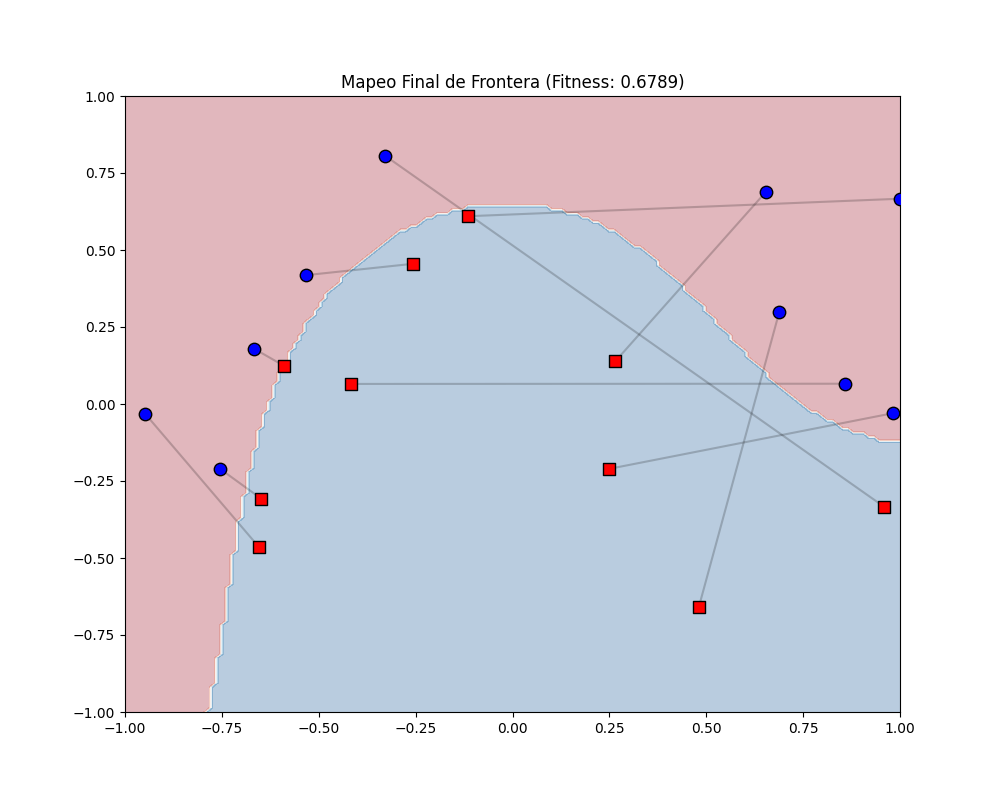
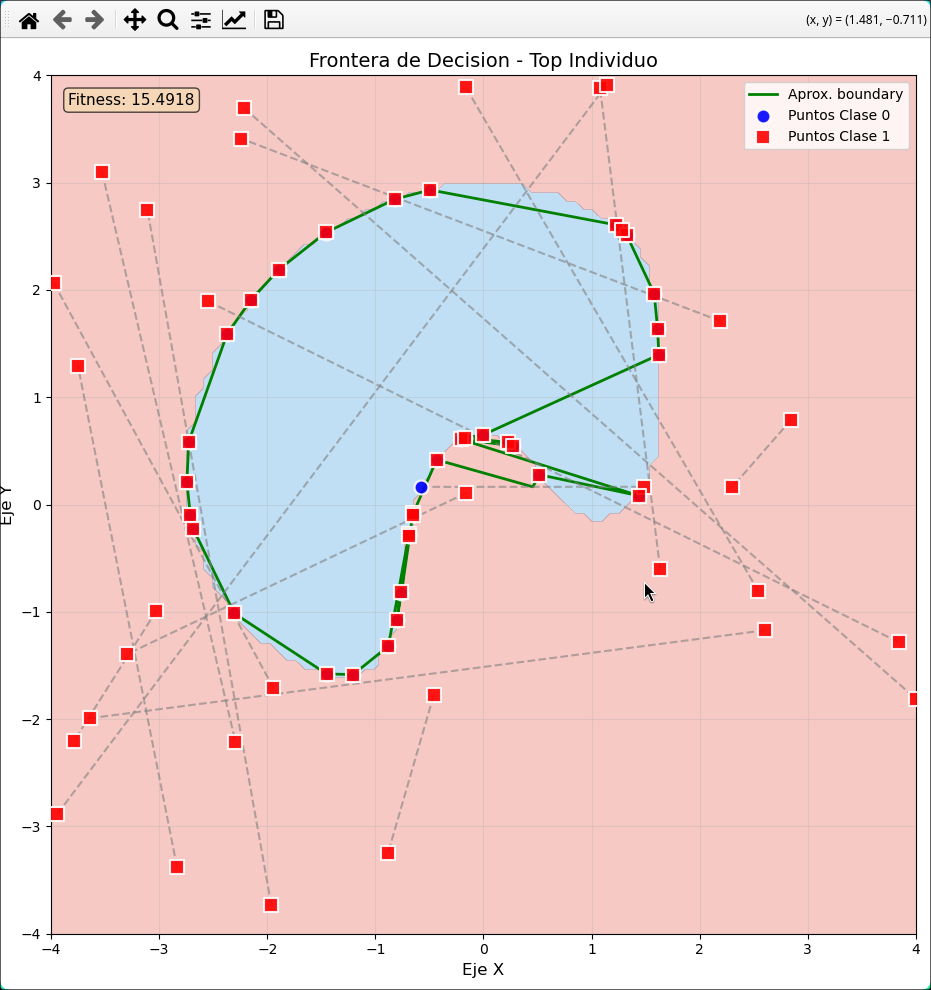
documentacion go go go me quiero ir a la cama jodeeeeer

diff --git a/P3/Documentation/Practica3.tex b/P3/Documentation/Practica3.tex
@@ -88,7 +88,7 @@ Sergio García Atanasio
 
 \newpage
 
-\begin{spacing}{1.3}
+\begin{spacing}{1.4}
 
 \section{Introducción}
 Documento sobre la realización de la tercera práctica de Metaheurísticas.
@@ -149,12 +149,24 @@ el modelo resultante.
 
 \subsubsection{Representación algoritmo genético}
 
-Para la realización de nuestro algoritmo genético, representaremos un individuo como un conjunto de pares de puntos del espacio en dos dimensiones.
-Para ello, se ha implementado la clase Individual, con parámetros esenciales como el número de puntos del individuo (ha de ser par),
-los límites del espacio de búsqueda (posteriormente detallados), emparejamiento, valor de fitness y la clase
+Para la realización de nuestro algoritmo genético, representaremos un individuo como un conjunto de pares de puntos del espacio en dos dimensiones, 
+de un tamaño indefinido, pero que fijaremos nosotros previamente antes de comenzar nuestro algoritmo genético.
+Una representación visual abstracta puede ser la siguiente:
+
+\begin{figure}[htb]
+  \centering
+  \includegraphics[width=0.35\linewidth]{images/Representacion_Genetico.png}
+\end{figure}
+
+Además, para la implementación del inviduo (no es la representación), se ha creado la clase Individual, con parámetros esenciales
+como el número de puntos del individuo (ha de ser par), los límites del espacio de búsqueda (posteriormente detallados), emparejamiento, valor de fitness y la clase
 a la que pertenece cada punto. Por último los puntos se almacenan en una matriz de nx2 donde cada fila representa un punto,
 a efectos prácticos es como una lista de puntos en orden ya que así la recorreremos. Dicho esto, si el tamaño
-de los individuos es de 20, tendremos una lista de 20 puntos que están emparejados entre sí.\\
+de los individuos es de 20, tendremos una lista de 20 puntos que están emparejados entre sí.
+
+El vector "pairs" indica la posición de cada punto en el vector de puntos. Es decir, un elemento del vector de pares 
+podría ser (4, 8), que indica que los puntos asociados a ese par son: (points[4], points[8])
+\\
 
 \begin{lstlisting}[language=Python, caption=Constructor de la clase Individuo]
   class Individual:
@@ -236,18 +248,28 @@ no queda cerrada correctamente.\\
 de este será explicado igualmente.\\
 
 \section{Población inicial}
-
+\subsection{Algoritmo Genético}
 El primer paso para realizar el algoritmo genético consiste en la creación de una población inicial que modificaremos después de
 varias generaciones y obtener mejores individuos. Para el algoritmo se ha implementado una generación de población
 inicial estocástica. Esta consiste en crear individuos aleatorios, dentro del espacio de búsqueda para que
 los individuos tengan sentido en la representación del problema. Esta estrategia es la de menos coste
-y complejidad, y ofrece precisamente un balance entre diversidad y coste computacional.\\
+y complejidad, y ofrece precisamente un balance entre diversidad y coste computacional.
 
 La principal debilidad de este método es que al no haber un control de los individuos resultantes,
 cabe la posibilidad de que surgan dentro de un individuo muchos puntos parecidos, y dentro de la población a su vez muchos
 individuos parecidos. Esto, además de ser poco probable que la mayoría de puntos sean similares, se abordará posteriormente
-con algunas técnicas que influirán más en la diversidad del algoritmo. En general, obtendremos buenos resultados, y si no es el caso
-siempre podemos volver a ejecutar una nueva creación de población si no estamos conformes.
+con algunas técnicas que influirán más en la diversidad del algoritmo. 
+
+Un matiz que se ha tenido en cuenta es que, a la hora de emparejar los puntos aleatorios que se han generado al crear el individuo,
+se preferirá de primera mano emparejar aquellos puntos que pertenezcan a una clase diferente, y el resto de puntos que sea de la misma clase emparejarlos aleatoriamente entre sí.
+De esta forma, ya empezamos de primera mano con individuos que tienen un fitness más aceptable que si se emparejasen todos los puntos de manera 
+aleatoria, con muy poco coste computacional añadido.
+
+En general, aplicando estos principios, obtendremos unos resultados constatemente buenos entre ejecuciones.
+
+\subsection{Programación Genética}
+
+[COMPLETAR AQUÍ]
 
 
 
@@ -332,6 +354,33 @@ El reemplazo de individuos en este algoritmo utiliza un modelo de Elitismo de la
 
 
 \section{Consideraciones extra}
+\subsection{Consideraciones Algoritmo Genético}
+
+Es posible que algunas de estas consideraciones hayan sido mencionadas en otros apartados, pero recapitulando,
+estas son los cambios más relevantes frente a una metodología tradicional en un algoritmo genético:
+
+\begin{itemize}
+  \item \textbf{Minimización de la distancia entre puntos de un mismo par:} Se tuvo en cuenta finalmente ya que
+  al algoritmo le costaba mucho trabajo encontrar puntos aleatoriamente que estuviesen cerca entre sí, por lo que 
+  se introdució este procedimiento para que la aproximación de la frontera sea lo más fiel a la original posible.
+  
+  Para ello, se genera una recta entre ambos puntos que pertenecen a su mismo par. Una vez obtenida la recta a través 
+  de la pendiente, podemos aplicar una búsqueda local para cada punto, que encuentre el punto más cercano a su contrario 
+  y que pueda pertenecer a su clase original (que no cambie de clase). Después, se repite el mismo proceso para el otro punto,
+  pero en dirección contraria. De esta forma, se obtienen los puntos lo más cercanos de uno al otro cuya separación es la frontera. 
+
+  El único inconveniente es que no funciona para puntos de la misma clase, por ello luego no son relevantes para realizar la estimación,
+  aunque idealmente el mejor individuo tendría todos los pares con puntos de diferente clase. 
+
+  Este método será usado cada 5 generaciones sobre el mejor individuo, ya que es una operación costosa para realizarla sobre todos los individuos
+  de la población.
+
+  \item \textbf{Generación de la frontera estimada:} La frontera estimada es calculada mediante el punto medio generado entre los puntos 
+  pertenecientes a un mismo par. El único requisito de estos puntos fronterizos ficticios es que tienen que ser generador por un par con puntos
+  de diferente clase, ya que de otra forma no es lo suficientemente representativo como para formar parte de la solución final. 
+
+  Una vez obtenidos, se dibuja la frontera uniendo los puntos que sean más cercanos entre ellos para intentar formar una forma cerrada.
+\end{itemize}
 
 \section{Análisis de resultados}
 \subsection{Algoritmo genético}
@@ -371,13 +420,17 @@ Y de la misma forma para el modelo B
   \includegraphics[width=0.85\textwidth]{images/stats_blackbox_modelB/conv_mut_rate.png}
 \end{center}
 \subsubsection{Análisis de la frontera}
-Por último respecto al estudio del algoritmo genético observamos como quedarían las fronteras, tanto para el modelo A
+Por último respecto al estudio del algoritmo genético observamos como quedarían las fronteras, tanto para el modelo A\\
 \begin{center}
-  \includegraphics[width=0.85\textwidth]{images/stats_blackbox_modelA/05_frontera_final.png}
+  \includegraphics[width=0.70\textwidth]{images/stats_blackbox_modelA/05_frontera_final.png}
 \end{center}
-Como para el modelo B
+Como para el modelo B\\
 \begin{center}
-  \includegraphics[width=0.85\textwidth]{images/stats_blackbox_modelB/05_frontera_final.png}
+  \includegraphics[width=0.70\textwidth]{images/stats_blackbox_modelB/05_frontera_final.png}
+
+  \textbf{Nota:} Aunque parezca que sólo haya puntos de clase 1 en la frontera estimada, realmente
+  son una pareja de puntos pero con la clase 1 prácticamente superpuesta sobre la clase 2. Entre ambos puntos
+  existe un punto medio que conforma la frontera, pero no se ve en el gráfico.
 \end{center}
 \end{spacing}
 \end{document}